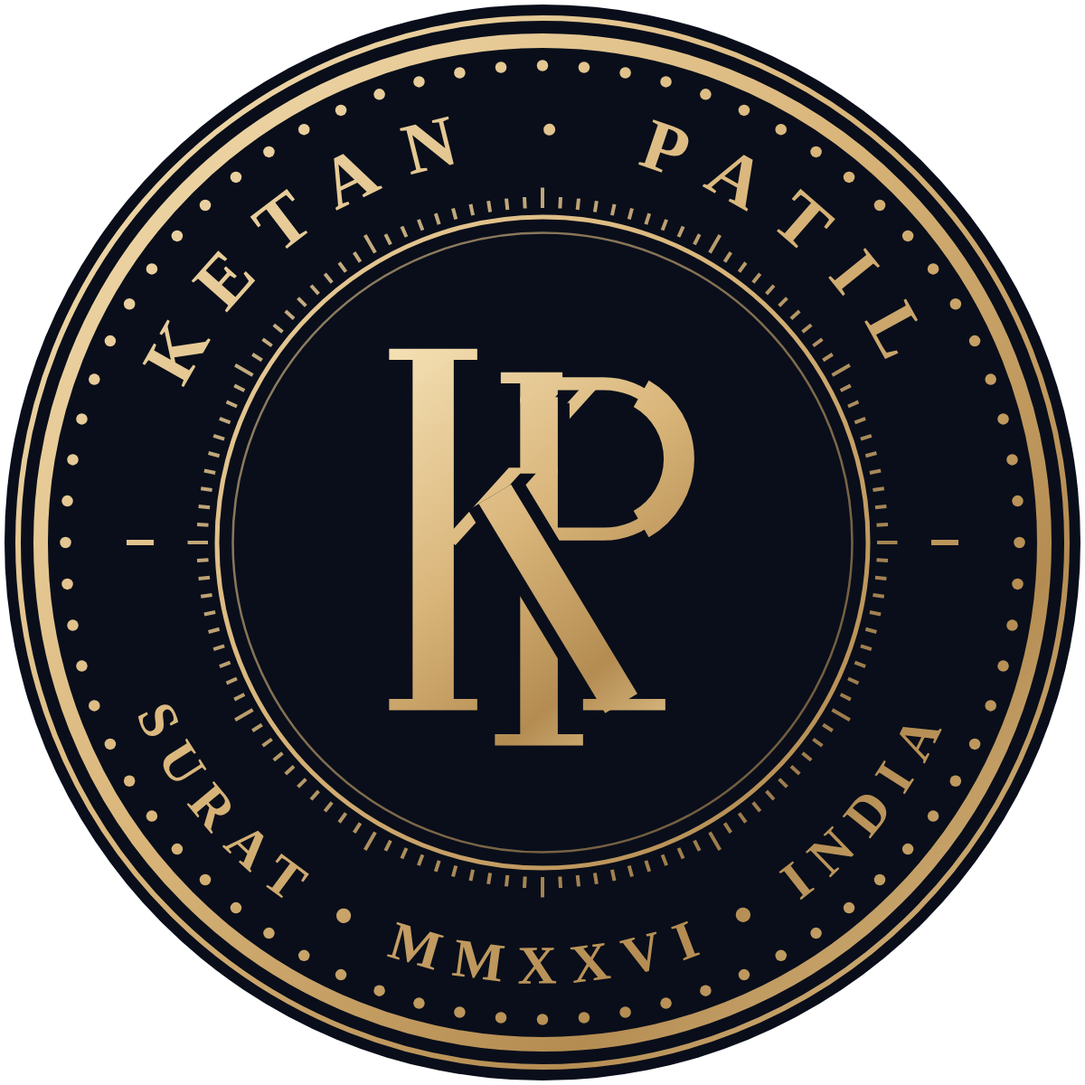
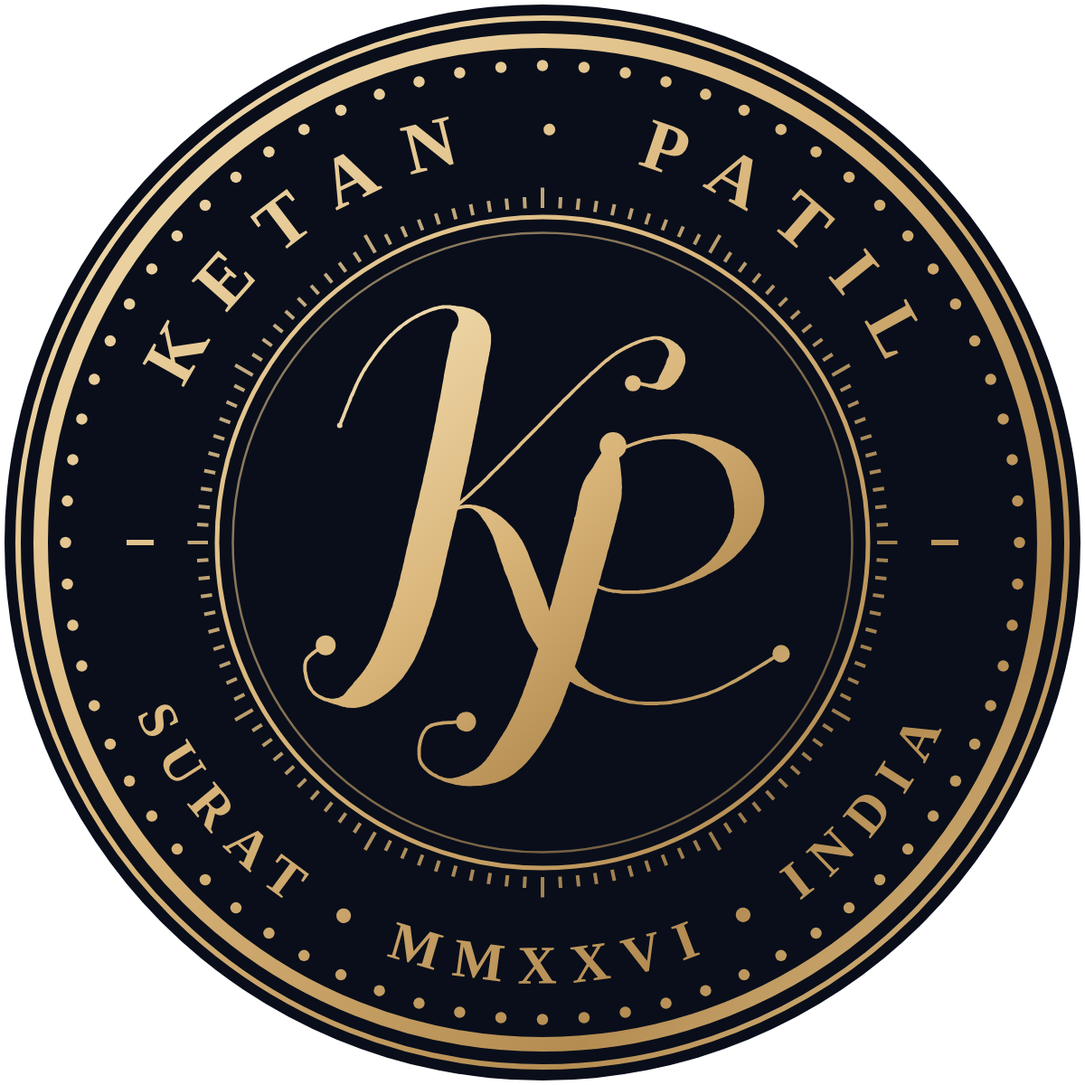
New calligraphic K·P monogram
Original pointed-pen script monogram (swelling downstrokes, hairline
upstrokes, ball terminals) replaces the engraved one in the nav, intro,
seal, favicons and brand files.

Claude-Session: https://claude.ai/code/session_01DU3MMTiPHhyLAGaKWpqTyE

Changed region(s): [[0.2775, 0.2775, 0.7092, 0.74], [0.3083, 0.3392, 0.3392, 0.4008], [0.7092, 0.5858, 0.74, 0.6167]]

diff --git a/index.html b/index.html
@@ -649,10 +649,11 @@ body.ready .signed text{animation:sign 1.8s 1.8s cubic-bezier(.65,0,.35,1) forwa
 footer .fnum{text-transform:none;letter-spacing:.06em}
 @media (max-width:760px){.fab{width:52px;height:52px}.fab svg{width:52px;height:52px}.fab-tip{display:none}}
 /* logo */
-.mk2{width:44px;height:44px;display:block;flex:none;transition:transform .8s cubic-bezier(.34,1.56,.64,1)}
+.mk2{width:46px;height:46px;display:block;flex:none;transition:transform .8s cubic-bezier(.34,1.56,.64,1)}
 .mk2 svg,.lmark svg,.fseal svg,.cseal svg{width:100%;height:100%;display:block}
 .logo:hover .mk2{transform:rotate(-12deg) scale(1.06)}
-.lmark{width:92px;height:92px;margin:0 auto 6px;opacity:0;animation:stamp .9s .15s cubic-bezier(.34,1.56,.64,1) forwards}
+.lmark{width:118px;height:118px;margin:0 auto 4px;clip-path:inset(0 100% 0 0);animation:write 1.5s .1s cubic-bezier(.65,0,.35,1) forwards;filter:drop-shadow(0 0 18px rgba(240,218,172,.25))}
+@keyframes write{to{clip-path:inset(0 0 0 0)}}
 @keyframes stamp{from{opacity:0;transform:scale(1.6) rotate(-30deg);filter:blur(4px)}to{opacity:1;transform:none;filter:none}}
 .fseal,.cseal{display:block}
 .fseal .ring,.cseal .ring{transform-box:view-box;transform-origin:50% 50%;animation:turn 60s linear infinite}
@@ -860,35 +861,17 @@ function toast(m){const t=$("#toast");t.textContent=m;t.classList.add("show");cl
 const arrow='<svg viewBox="0 0 24 24" fill="none" stroke="currentColor" stroke-width="1.8" stroke-linecap="round" stroke-linejoin="round"><path d="M5 12h14M13 6l6 6-6 6"/></svg>';
 
 // Ketan Patil seal + monogram (original design). gid = unique id prefix, bg = background colour used for interlace gaps.
-function kpMono(gid,bg){const G=`url(#${gid}m)`;return `
-<g fill="none" stroke-linecap="butt" stroke-linejoin="miter">
- <g stroke="${G}">
-  <line x1="52" y1="24" x2="52" y2="86" stroke-width="6.4"/>
-  <line x1="45.5" y1="24.2" x2="56" y2="24.2" stroke-width="1.9"/>
-  <line x1="44.5" y1="85.8" x2="59.5" y2="85.8" stroke-width="1.9"/>
-  <path d="M55 25.2 H63 A12.8 12.8 0 0 1 63 50.8 H55" stroke-width="2.2"/>
-  <path d="M69.4 26.9 A12.8 12.8 0 0 1 69.4 49.1" stroke-width="5.2"/>
- </g>
- <line x1="37" y1="52" x2="57.6" y2="29" stroke="${bg}" stroke-width="6.2"/>
- <line x1="37" y1="52" x2="61.2" y2="25.2" stroke="${G}" stroke-width="2.1"/>
- <line x1="52" y1="28.5" x2="52" y2="39.5" stroke="${bg}" stroke-width="10.4"/>
- <line x1="52" y1="27.5" x2="52" y2="40.5" stroke="${G}" stroke-width="6.4"/>
- <line x1="44.5" y1="44" x2="66" y2="79.6" stroke="${bg}" stroke-width="10.6"/>
- <line x1="44.5" y1="44" x2="66" y2="79.6" stroke="${G}" stroke-width="6.4"/>
- <line x1="59.5" y1="79.8" x2="73.5" y2="79.8" stroke="${G}" stroke-width="1.9"/>
- <g stroke="${G}">
-  <line x1="34" y1="20" x2="34" y2="80" stroke-width="7"/>
-  <line x1="26.5" y1="20.2" x2="41.5" y2="20.2" stroke-width="1.9"/>
-  <line x1="26.5" y1="79.8" x2="41.5" y2="79.8" stroke-width="1.9"/>
- </g>
-</g>`}
+const KP_PATHS=["M44.5,74.2 L44.7,73.8 L44.9,73.2 L45.2,72.6 L45.4,72.0 L45.7,71.3 L46.0,70.5 L46.3,69.7 L46.7,68.8 L47.0,67.9 L47.4,67.0 L47.8,66.1 L48.1,65.1 L48.6,64.2 L49.0,63.2 L49.4,62.3 L49.8,61.3 L50.2,60.4 L50.7,59.5 L51.1,58.7 L51.6,57.8 L52.0,57.0 L52.5,56.3 L52.9,55.6 L53.4,54.8 L53.9,54.1 L54.4,53.4 L54.9,52.7 L55.4,52.0 L55.9,51.3 L56.4,50.6 L57.0,49.9 L57.5,49.3 L58.0,48.6 L58.6,48.0 L59.2,47.3 L59.7,46.7 L60.3,46.1 L60.9,45.5 L61.4,45.0 L62.0,44.4 L62.6,43.9 L63.2,43.4 L63.8,42.9 L64.3,42.4 L64.9,42.0 L65.5,41.6 L66.2,41.1 L66.8,40.7 L67.4,40.3 L68.1,39.9 L68.8,39.6 L69.4,39.2 L70.1,38.9 L70.8,38.6 L71.5,38.3 L72.1,38.0 L72.8,37.7 L73.4,37.5 L74.1,37.3 L74.7,37.1 L75.3,36.9 L75.9,36.8 L76.5,36.7 L77.0,36.6 L77.5,36.6 L78.0,36.5 L78.5,36.6 L78.9,36.6 L79.4,36.7 L79.8,36.9 L80.2,37.1 L80.6,37.3 L80.9,37.6 L81.3,37.9 L81.5,38.3 L81.7,38.7 L81.9,39.1 L82.0,39.6 L82.1,40.0 L82.1,40.5 L82.0,40.9 L81.9,41.4 L81.8,41.8 L81.7,42.1 L81.5,42.5 L81.3,42.8 L81.1,43.1 L80.9,43.4 L80.7,43.6 L80.5,43.8 L80.4,44.0 L80.2,44.3 L80.1,44.6 L80.0,45.0 L79.9,45.4 L79.8,45.9 L79.7,46.4 L79.6,47.0 L79.4,47.6 L79.3,48.3 L79.2,49.0 L79.0,49.7 L78.9,50.5 L78.7,51.3 L78.5,52.2 L78.3,53.1 L78.1,54.0 L78.0,54.9 L77.8,55.9 L77.6,56.9 L77.4,57.9 L77.3,58.9 L77.1,59.9 L76.9,61.0 L76.7,62.1 L76.5,63.2 L76.3,64.4 L76.1,65.5 L75.8,66.7 L75.6,67.9 L75.4,69.1 L75.1,70.4 L74.9,71.6 L74.7,72.9 L74.4,74.1 L74.2,75.4 L73.9,76.6 L73.7,77.8 L73.4,79.1 L73.1,80.3 L72.9,81.5 L72.6,82.7 L72.4,83.8 L72.1,85.0 L71.9,86.2 L71.6,87.4 L71.4,88.5 L71.1,89.7 L70.8,90.9 L70.6,92.1 L70.3,93.3 L70.0,94.5 L69.7,95.6 L69.5,96.8 L69.2,98.0 L68.9,99.2 L68.6,100.4 L68.3,101.5 L68.1,102.7 L67.8,103.9 L67.5,105.0 L67.2,106.2 L67.0,107.3 L66.7,108.5 L66.4,109.6 L66.1,110.8 L65.9,112.0 L65.6,113.1 L65.3,114.3 L65.1,115.4 L64.8,116.6 L64.6,117.7 L64.3,118.8 L64.1,119.9 L63.8,121.0 L63.5,122.1 L63.3,123.2 L63.0,124.2 L62.8,125.3 L62.5,126.3 L62.2,127.3 L62.0,128.3 L61.7,129.2 L61.4,130.2 L61.1,131.1 L60.9,132.0 L60.5,132.9 L60.2,133.8 L59.9,134.7 L59.6,135.6 L59.3,136.5 L59.0,137.3 L58.7,138.2 L58.4,139.0 L58.1,139.8 L57.8,140.6 L57.5,141.4 L57.2,142.1 L56.9,142.9 L56.6,143.6 L56.3,144.3 L56.0,145.0 L55.7,145.6 L55.4,146.3 L55.1,146.9 L54.8,147.5 L54.5,148.0 L54.2,148.6 L53.9,149.2 L53.6,149.7 L53.3,150.3 L52.9,150.9 L52.5,151.4 L52.2,152.0 L51.8,152.5 L51.4,153.1 L51.0,153.6 L50.6,154.1 L50.2,154.6 L49.7,155.1 L49.3,155.6 L48.9,156.0 L48.5,156.5 L48.2,156.9 L47.8,157.4 L47.4,157.8 L47.1,158.2 L46.7,158.6 L46.4,159.0 L46.1,159.4 L45.8,159.8 L45.5,160.1 L45.1,160.5 L44.7,160.8 L44.2,161.0 L43.7,161.3 L43.2,161.4 L42.7,161.5 L42.1,161.6 L41.6,161.6 L41.1,161.6 L40.6,161.5 L40.0,161.4 L39.6,161.3 L39.1,161.1 L38.6,160.9 L38.2,160.7 L37.8,160.5 L37.4,160.3 L37.0,160.1 L36.7,159.8 L36.4,159.6 L36.1,159.3 L35.8,159.0 L35.5,158.7 L35.3,158.3 L35.1,157.9 L34.8,157.5 L34.6,157.0 L34.4,156.6 L34.2,156.1 L34.1,155.6 L33.9,155.1 L33.8,154.6 L33.7,154.1 L33.6,153.6 L33.5,153.1 L33.4,152.6 L33.4,152.1 L33.4,151.7 L33.4,151.2 L33.4,150.8 L33.5,150.5 L33.5,150.1 L33.6,149.8 L33.8,149.5 L34.0,149.2 L34.2,148.9 L34.5,148.6 L34.8,148.3 L35.1,148.0 L35.5,147.7 L35.8,147.4 L36.2,147.1 L36.6,146.8 L37.0,146.6 L37.4,146.3 L37.8,146.0 L38.2,145.8 L38.6,145.6 L39.0,145.3 L39.3,145.1 L39.6,144.9 L39.9,144.8 L40.1,144.6 L40.3,144.4 L39.7,143.6 L39.5,143.7 L39.3,143.8 L39.0,144.0 L38.7,144.2 L38.4,144.4 L38.0,144.6 L37.7,144.9 L37.3,145.1 L36.8,145.4 L36.4,145.6 L36.0,145.9 L35.6,146.2 L35.2,146.5 L34.8,146.8 L34.4,147.2 L34.0,147.5 L33.6,147.9 L33.3,148.2 L33.0,148.6 L32.8,149.0 L32.6,149.4 L32.5,149.9 L32.4,150.3 L32.3,150.7 L32.3,151.2 L32.3,151.7 L32.3,152.2 L32.3,152.7 L32.4,153.2 L32.5,153.8 L32.6,154.3 L32.7,154.9 L32.8,155.4 L33.0,155.9 L33.2,156.5 L33.4,157.0 L33.6,157.5 L33.8,158.0 L34.1,158.5 L34.4,158.9 L34.7,159.3 L35.0,159.7 L35.3,160.1 L35.6,160.4 L36.0,160.7 L36.4,161.0 L36.8,161.2 L37.2,161.5 L37.7,161.7 L38.2,162.0 L38.7,162.2 L39.2,162.4 L39.7,162.5 L40.3,162.7 L40.8,162.9 L41.4,163.1 L41.9,163.3 L42.5,163.4 L43.1,163.6 L43.7,163.8 L44.4,164.0 L45.0,164.2 L45.7,164.3 L46.4,164.5 L47.1,164.5 L47.9,164.6 L48.6,164.6 L49.4,164.5 L50.2,164.4 L50.9,164.2 L51.7,164.0 L52.5,163.8 L53.2,163.5 L54.0,163.1 L54.7,162.8 L55.5,162.3 L56.2,161.9 L57.0,161.4 L57.7,160.9 L58.4,160.4 L59.1,159.9 L59.8,159.3 L60.5,158.7 L61.2,158.1 L61.9,157.4 L62.5,156.8 L63.1,156.1 L63.8,155.4 L64.4,154.7 L64.9,153.9 L65.5,153.1 L66.0,152.3 L66.5,151.5 L67.0,150.7 L67.5,149.9 L68.0,149.0 L68.4,148.1 L68.8,147.3 L69.2,146.4 L69.6,145.5 L70.0,144.6 L70.4,143.6 L70.8,142.7 L71.1,141.8 L71.5,140.8 L71.8,139.9 L72.1,138.9 L72.5,138.0 L72.8,137.0 L73.1,136.0 L73.5,135.0 L73.8,133.9 L74.1,132.9 L74.5,131.8 L74.8,130.7 L75.1,129.6 L75.4,128.5 L75.6,127.4 L75.9,126.2 L76.2,125.1 L76.5,124.0 L76.7,122.8 L77.0,121.7 L77.2,120.6 L77.5,119.4 L77.8,118.3 L78.0,117.1 L78.3,116.0 L78.5,114.9 L78.8,113.8 L79.1,112.6 L79.3,111.5 L79.6,110.4 L79.9,109.2 L80.1,108.1 L80.4,106.9 L80.7,105.7 L81.0,104.6 L81.3,103.4 L81.5,102.2 L81.8,101.0 L82.1,99.8 L82.4,98.6 L82.7,97.4 L82.9,96.2 L83.2,95.0 L83.5,93.8 L83.8,92.6 L84.0,91.4 L84.3,90.2 L84.6,89.0 L84.8,87.7 L85.1,86.5 L85.4,85.3 L85.6,84.1 L85.9,82.9 L86.1,81.7 L86.4,80.4 L86.6,79.2 L86.9,77.9 L87.1,76.7 L87.4,75.4 L87.6,74.1 L87.9,72.9 L88.1,71.6 L88.4,70.4 L88.6,69.1 L88.8,67.9 L89.0,66.7 L89.3,65.5 L89.5,64.4 L89.7,63.3 L89.9,62.2 L90.0,61.1 L90.2,60.1 L90.4,59.1 L90.5,58.2 L90.7,57.3 L90.9,56.5 L91.0,55.6 L91.2,54.8 L91.4,54.0 L91.6,53.1 L91.7,52.3 L91.9,51.5 L92.0,50.7 L92.2,49.9 L92.3,49.1 L92.4,48.3 L92.5,47.4 L92.5,46.6 L92.5,45.8 L92.5,44.9 L92.3,44.0 L92.1,43.2 L91.9,42.3 L91.5,41.4 L91.1,40.6 L90.6,39.9 L90.0,39.2 L89.4,38.7 L88.8,38.1 L88.1,37.7 L87.5,37.3 L86.8,36.9 L86.1,36.7 L85.4,36.4 L84.8,36.3 L84.1,36.1 L83.5,36.0 L82.9,35.9 L82.3,35.8 L81.7,35.8 L81.2,35.7 L80.6,35.6 L80.1,35.6 L79.6,35.5 L79.1,35.5 L78.5,35.5 L78.0,35.5 L77.5,35.5 L76.9,35.5 L76.3,35.6 L75.7,35.7 L75.1,35.9 L74.4,36.0 L73.8,36.2 L73.1,36.4 L72.4,36.7 L71.7,37.0 L71.0,37.2 L70.3,37.6 L69.6,37.9 L68.9,38.2 L68.3,38.6 L67.6,39.0 L66.9,39.4 L66.2,39.8 L65.6,40.2 L64.9,40.7 L64.3,41.1 L63.7,41.6 L63.1,42.0 L62.5,42.5 L61.9,43.1 L61.3,43.6 L60.7,44.2 L60.1,44.7 L59.5,45.3 L58.9,46.0 L58.3,46.6 L57.8,47.2 L57.2,47.9 L56.6,48.6 L56.1,49.2 L55.6,49.9 L55.0,50.6 L54.5,51.4 L54.0,52.1 L53.5,52.8 L53.0,53.5 L52.5,54.2 L52.0,55.0 L51.5,55.7 L51.1,56.5 L50.6,57.3 L50.2,58.1 L49.7,59.0 L49.3,59.9 L48.8,60.9 L48.4,61.8 L48.0,62.8 L47.5,63.8 L47.1,64.7 L46.7,65.7 L46.4,66.6 L46.0,67.5 L45.6,68.4 L45.3,69.3 L45.0,70.1 L44.7,70.8 L44.4,71.6 L44.1,72.2 L43.9,72.8 L43.7,73.3 L43.5,73.8ZM43.12,74.00 a0.88,0.88 0 1,0 1.76,0 a0.88,0.88 0 1,0 -1.76,0ZM39.12,144.00 a0.88,0.88 0 1,0 1.76,0 a0.88,0.88 0 1,0 -1.76,0Z", "M72.4,108.4 L72.8,108.1 L73.2,107.7 L73.7,107.3 L74.3,106.8 L74.9,106.3 L75.5,105.7 L76.2,105.1 L76.9,104.5 L77.7,103.9 L78.4,103.2 L79.2,102.5 L80.0,101.8 L80.9,101.1 L81.7,100.4 L82.6,99.6 L83.4,98.9 L84.3,98.1 L85.1,97.4 L86.0,96.6 L86.8,95.9 L87.6,95.1 L88.4,94.4 L89.2,93.7 L90.0,92.9 L90.8,92.1 L91.6,91.3 L92.4,90.5 L93.2,89.7 L94.0,88.9 L94.9,88.1 L95.7,87.2 L96.6,86.4 L97.4,85.5 L98.2,84.7 L99.1,83.8 L99.9,83.0 L100.7,82.1 L101.6,81.3 L102.4,80.4 L103.2,79.6 L104.0,78.8 L104.8,78.0 L105.6,77.2 L106.4,76.4 L107.2,75.6 L107.9,74.8 L108.7,74.1 L109.5,73.3 L110.2,72.5 L111.0,71.7 L111.8,70.9 L112.5,70.2 L113.3,69.4 L114.0,68.6 L114.8,67.9 L115.5,67.1 L116.2,66.4 L117.0,65.7 L117.7,65.0 L118.4,64.3 L119.1,63.6 L119.7,62.9 L120.4,62.3 L121.1,61.6 L121.7,61.0 L122.4,60.4 L123.0,59.8 L123.6,59.2 L124.2,58.7 L124.8,58.1 L125.4,57.6 L125.9,57.1 L126.5,56.6 L127.0,56.1 L127.6,55.6 L128.1,55.1 L128.6,54.7 L129.1,54.2 L129.6,53.8 L130.2,53.4 L130.7,53.0 L131.2,52.6 L131.7,52.2 L132.2,51.8 L132.7,51.5 L133.2,51.1 L133.7,50.8 L134.3,50.5 L134.8,50.2 L135.4,49.9 L135.9,49.6 L136.5,49.3 L137.1,49.0 L137.7,48.7 L138.2,48.4 L138.8,48.2 L139.4,48.0 L140.0,47.7 L140.6,47.5 L141.1,47.3 L141.7,47.2 L142.2,47.0 L142.8,46.9 L143.3,46.7 L143.8,46.7 L144.3,46.6 L144.7,46.5 L145.1,46.5 L145.6,46.5 L145.9,46.6 L146.3,46.7 L146.6,46.8 L147.0,46.9 L147.3,47.1 L147.6,47.4 L147.9,47.6 L148.2,47.9 L148.4,48.2 L148.6,48.5 L148.8,48.9 L149.0,49.2 L149.2,49.5 L149.3,49.9 L149.4,50.2 L149.5,50.5 L149.5,50.9 L149.5,51.2 L149.5,51.4 L149.5,51.7 L149.4,51.9 L149.3,52.1 L149.3,52.2 L149.2,52.3 L149.1,52.4 L149.0,52.6 L148.9,52.9 L148.8,53.2 L148.7,53.5 L148.6,53.9 L148.5,54.3 L148.3,54.7 L148.1,55.1 L147.9,55.6 L147.7,56.0 L147.5,56.4 L147.3,56.8 L147.1,57.2 L146.9,57.6 L146.7,57.9 L146.5,58.3 L146.4,58.6 L146.3,58.9 L146.2,59.2 L146.1,59.4 L146.1,59.7 L145.9,59.9 L145.7,60.2 L145.4,60.4 L145.0,60.5 L144.6,60.6 L144.2,60.7 L143.7,60.7 L143.3,60.7 L142.8,60.6 L142.3,60.5 L141.8,60.4 L141.4,60.3 L140.9,60.2 L140.5,60.1 L140.1,59.9 L139.7,59.8 L139.3,59.7 L138.9,59.6 L138.6,59.6 L138.3,59.5 L138.1,59.5 L137.9,60.5 L138.1,60.6 L138.4,60.6 L138.7,60.7 L139.0,60.8 L139.4,60.9 L139.8,61.0 L140.2,61.1 L140.6,61.2 L141.1,61.4 L141.6,61.5 L142.1,61.6 L142.6,61.7 L143.1,61.9 L143.6,62.0 L144.1,62.1 L144.6,62.2 L145.1,62.3 L145.6,62.5 L146.1,62.6 L146.7,62.6 L147.3,62.7 L147.9,62.6 L148.5,62.4 L149.0,62.2 L149.5,61.9 L150.1,61.6 L150.5,61.2 L151.0,60.8 L151.4,60.4 L151.8,59.9 L152.2,59.4 L152.6,58.9 L152.9,58.3 L153.3,57.8 L153.6,57.2 L153.9,56.6 L154.1,56.1 L154.3,55.5 L154.5,54.9 L154.7,54.3 L154.8,53.7 L154.8,53.1 L154.8,52.5 L154.7,51.8 L154.6,51.2 L154.4,50.7 L154.1,50.2 L153.8,49.7 L153.5,49.3 L153.1,48.9 L152.7,48.5 L152.4,48.1 L151.9,47.8 L151.5,47.5 L151.1,47.2 L150.7,46.9 L150.2,46.7 L149.8,46.4 L149.3,46.2 L148.8,46.1 L148.4,45.9 L147.9,45.8 L147.4,45.6 L147.0,45.5 L146.5,45.5 L146.1,45.4 L145.6,45.4 L145.1,45.4 L144.6,45.4 L144.1,45.5 L143.6,45.6 L143.1,45.7 L142.5,45.8 L141.9,45.9 L141.4,46.1 L140.8,46.3 L140.2,46.5 L139.6,46.7 L139.0,46.9 L138.4,47.2 L137.8,47.4 L137.2,47.7 L136.6,48.0 L136.0,48.3 L135.4,48.6 L134.9,48.9 L134.3,49.2 L133.7,49.5 L133.2,49.9 L132.6,50.2 L132.1,50.6 L131.6,50.9 L131.0,51.3 L130.5,51.7 L130.0,52.1 L129.5,52.5 L128.9,52.9 L128.4,53.4 L127.9,53.8 L127.4,54.3 L126.8,54.8 L126.3,55.3 L125.7,55.8 L125.2,56.3 L124.6,56.8 L124.0,57.3 L123.5,57.9 L122.9,58.4 L122.3,59.0 L121.6,59.6 L121.0,60.2 L120.3,60.8 L119.7,61.5 L119.0,62.1 L118.3,62.8 L117.6,63.5 L116.9,64.2 L116.2,64.9 L115.4,65.6 L114.7,66.4 L114.0,67.1 L113.2,67.9 L112.5,68.6 L111.7,69.4 L111.0,70.2 L110.2,70.9 L109.5,71.7 L108.7,72.5 L107.9,73.3 L107.2,74.1 L106.4,74.8 L105.6,75.6 L104.8,76.4 L104.0,77.2 L103.2,78.0 L102.4,78.8 L101.6,79.6 L100.8,80.5 L100.0,81.3 L99.1,82.2 L98.3,83.0 L97.4,83.9 L96.6,84.7 L95.8,85.6 L94.9,86.4 L94.1,87.3 L93.3,88.1 L92.4,88.9 L91.6,89.7 L90.8,90.6 L90.0,91.3 L89.2,92.1 L88.4,92.9 L87.6,93.6 L86.8,94.3 L86.0,95.1 L85.2,95.8 L84.4,96.6 L83.5,97.3 L82.7,98.1 L81.8,98.8 L81.0,99.6 L80.2,100.3 L79.3,101.0 L78.5,101.7 L77.7,102.4 L76.9,103.1 L76.2,103.7 L75.5,104.3 L74.8,104.9 L74.2,105.4 L73.6,105.9 L73.0,106.4 L72.5,106.9 L72.0,107.2 L71.6,107.6ZM71.12,108.00 a0.88,0.88 0 1,0 1.76,0 a0.88,0.88 0 1,0 -1.76,0ZM137.12,60.00 a0.88,0.88 0 1,0 1.76,0 a0.88,0.88 0 1,0 -1.76,0Z", "M74.2,104.5 L74.5,104.4 L74.9,104.2 L75.3,104.1 L75.7,103.8 L76.2,103.6 L76.7,103.4 L77.2,103.1 L77.8,102.8 L78.4,102.6 L79.0,102.3 L79.6,102.0 L80.2,101.7 L80.8,101.5 L81.5,101.3 L82.1,101.0 L82.7,100.9 L83.3,100.7 L83.9,100.6 L84.4,100.5 L85.0,100.5 L85.4,100.5 L85.9,100.6 L86.3,100.7 L86.8,100.9 L87.2,101.2 L87.6,101.5 L88.0,101.8 L88.4,102.1 L88.7,102.5 L89.1,102.9 L89.4,103.4 L89.7,103.8 L90.0,104.3 L90.3,104.7 L90.7,105.2 L91.0,105.7 L91.3,106.2 L91.6,106.7 L91.9,107.2 L92.2,107.7 L92.4,108.3 L92.7,108.8 L93.0,109.4 L93.2,109.9 L93.4,110.5 L93.6,111.0 L93.8,111.6 L94.0,112.2 L94.2,112.8 L94.4,113.5 L94.6,114.2 L94.8,114.9 L95.1,115.6 L95.3,116.3 L95.6,117.0 L95.8,117.8 L96.1,118.5 L96.4,119.3 L96.6,120.1 L96.9,120.9 L97.2,121.7 L97.6,122.5 L97.9,123.3 L98.2,124.1 L98.5,124.9 L98.8,125.7 L99.1,126.4 L99.4,127.2 L99.6,128.0 L99.9,128.7 L100.2,129.6 L100.4,130.4 L100.7,131.2 L101.0,132.1 L101.3,132.9 L101.6,133.8 L101.9,134.6 L102.2,135.5 L102.6,136.4 L102.9,137.2 L103.3,138.1 L103.7,139.0 L104.1,139.8 L104.6,140.7 L105.1,141.5 L105.6,142.3 L106.0,143.1 L106.6,143.9 L107.0,144.6 L107.5,145.3 L108.0,146.0 L108.5,146.8 L108.9,147.5 L109.4,148.2 L109.9,148.9 L110.5,149.6 L111.0,150.3 L111.6,150.9 L112.2,151.6 L112.8,152.2 L113.4,152.8 L114.1,153.4 L114.8,154.0 L115.5,154.5 L116.2,155.1 L116.9,155.6 L117.7,156.1 L118.5,156.5 L119.2,157.0 L120.0,157.4 L120.8,157.8 L121.7,158.1 L122.5,158.5 L123.3,158.9 L124.2,159.3 L125.0,159.6 L125.9,160.0 L126.8,160.3 L127.7,160.6 L128.6,160.9 L129.6,161.3 L130.5,161.5 L131.4,161.8 L132.4,162.1 L133.3,162.3 L134.2,162.6 L135.2,162.8 L136.1,163.0 L137.1,163.2 L138.0,163.3 L139.0,163.4 L139.9,163.5 L140.9,163.6 L141.9,163.7 L142.8,163.7 L143.8,163.7 L144.8,163.7 L145.8,163.7 L146.8,163.6 L147.8,163.6 L148.8,163.5 L149.9,163.4 L150.9,163.2 L151.9,163.1 L152.9,162.9 L154.0,162.7 L155.0,162.5 L156.0,162.3 L157.1,162.0 L158.1,161.8 L159.1,161.5 L160.1,161.2 L161.2,160.9 L162.2,160.5 L163.2,160.1 L164.3,159.7 L165.4,159.2 L166.5,158.7 L167.7,158.1 L168.8,157.5 L170.0,156.9 L171.2,156.3 L172.4,155.6 L173.5,155.0 L174.7,154.3 L175.8,153.6 L176.9,153.0 L177.9,152.3 L178.9,151.7 L179.9,151.1 L180.8,150.6 L181.6,150.0 L182.4,149.6 L183.1,149.1 L183.7,148.8 L184.3,148.5 L183.7,147.5 L183.2,147.8 L182.5,148.2 L181.8,148.6 L181.1,149.1 L180.2,149.6 L179.3,150.2 L178.3,150.8 L177.3,151.4 L176.3,152.0 L175.2,152.7 L174.1,153.3 L173.0,154.0 L171.8,154.7 L170.7,155.3 L169.5,155.9 L168.3,156.6 L167.2,157.2 L166.1,157.7 L165.0,158.2 L163.9,158.7 L162.8,159.1 L161.8,159.5 L160.8,159.8 L159.8,160.1 L158.8,160.4 L157.8,160.7 L156.8,161.0 L155.8,161.2 L154.8,161.4 L153.8,161.6 L152.8,161.8 L151.7,162.0 L150.7,162.1 L149.7,162.3 L148.7,162.4 L147.7,162.5 L146.7,162.5 L145.8,162.6 L144.8,162.6 L143.8,162.6 L142.9,162.6 L141.9,162.6 L141.0,162.5 L140.1,162.5 L139.1,162.4 L138.2,162.2 L137.3,162.1 L136.4,161.9 L135.4,161.7 L134.5,161.4 L133.6,161.2 L132.7,160.9 L131.8,160.6 L130.9,160.2 L130.1,159.9 L129.2,159.5 L128.4,159.1 L127.6,158.7 L126.8,158.2 L126.0,157.7 L125.2,157.3 L124.5,156.8 L123.8,156.3 L123.2,155.7 L122.5,155.2 L122.0,154.6 L121.4,154.1 L120.9,153.5 L120.4,152.9 L120.0,152.3 L119.6,151.7 L119.2,151.0 L118.8,150.4 L118.4,149.8 L118.0,149.1 L117.7,148.5 L117.3,147.8 L117.0,147.1 L116.6,146.5 L116.3,145.8 L115.9,145.1 L115.6,144.4 L115.2,143.7 L114.8,143.0 L114.5,142.3 L114.1,141.6 L113.8,140.8 L113.4,140.1 L113.1,139.4 L112.9,138.7 L112.6,138.0 L112.4,137.2 L112.1,136.5 L111.9,135.7 L111.6,134.9 L111.4,134.1 L111.1,133.3 L110.9,132.4 L110.6,131.6 L110.4,130.8 L110.1,129.9 L109.8,129.1 L109.5,128.2 L109.2,127.4 L108.9,126.5 L108.5,125.7 L108.2,124.8 L107.9,124.0 L107.5,123.1 L107.2,122.3 L106.9,121.5 L106.6,120.8 L106.3,120.0 L106.0,119.3 L105.7,118.5 L105.4,117.7 L105.1,116.9 L104.8,116.1 L104.5,115.3 L104.2,114.5 L103.8,113.7 L103.5,113.0 L103.1,112.2 L102.7,111.4 L102.3,110.7 L101.8,110.0 L101.4,109.3 L100.9,108.6 L100.4,107.9 L99.9,107.3 L99.3,106.6 L98.8,106.1 L98.2,105.5 L97.7,105.0 L97.2,104.5 L96.6,104.0 L96.1,103.6 L95.5,103.1 L94.9,102.7 L94.4,102.3 L93.8,101.9 L93.2,101.6 L92.6,101.2 L92.0,100.9 L91.4,100.7 L90.8,100.4 L90.1,100.2 L89.5,100.1 L88.9,99.9 L88.4,99.8 L87.8,99.6 L87.2,99.5 L86.7,99.5 L86.1,99.4 L85.5,99.4 L84.9,99.4 L84.3,99.4 L83.7,99.5 L83.0,99.6 L82.4,99.8 L81.7,100.0 L81.1,100.2 L80.4,100.5 L79.8,100.7 L79.2,101.0 L78.5,101.3 L77.9,101.6 L77.3,101.8 L76.8,102.1 L76.2,102.4 L75.7,102.6 L75.2,102.9 L74.8,103.1 L74.4,103.2 L74.1,103.4 L73.8,103.5ZM73.12,104.00 a0.88,0.88 0 1,0 1.76,0 a0.88,0.88 0 1,0 -1.76,0ZM183.12,148.00 a0.88,0.88 0 1,0 1.76,0 a0.88,0.88 0 1,0 -1.76,0Z", "M129.5,79.6 L129.4,80.0 L129.2,80.6 L128.9,81.2 L128.5,81.8 L128.1,82.5 L127.7,83.2 L127.2,84.0 L126.7,84.8 L126.2,85.6 L125.7,86.5 L125.2,87.4 L124.6,88.3 L124.1,89.3 L123.6,90.2 L123.1,91.2 L122.6,92.2 L122.2,93.2 L121.8,94.3 L121.5,95.3 L121.2,96.4 L120.9,97.4 L120.7,98.4 L120.4,99.5 L120.2,100.5 L119.9,101.6 L119.6,102.8 L119.3,103.9 L119.0,105.1 L118.7,106.2 L118.4,107.4 L118.0,108.6 L117.7,109.8 L117.4,111.1 L117.1,112.3 L116.7,113.5 L116.4,114.7 L116.0,115.9 L115.7,117.2 L115.4,118.4 L115.0,119.6 L114.7,120.8 L114.4,121.9 L114.1,123.1 L113.7,124.3 L113.4,125.4 L113.1,126.5 L112.8,127.7 L112.5,128.8 L112.2,129.9 L111.9,131.1 L111.5,132.2 L111.2,133.3 L110.9,134.4 L110.6,135.5 L110.3,136.6 L110.0,137.7 L109.7,138.8 L109.4,139.8 L109.1,140.9 L108.8,141.9 L108.5,143.0 L108.1,144.0 L107.8,145.0 L107.5,146.0 L107.2,146.9 L106.9,147.9 L106.5,148.9 L106.2,149.9 L105.9,150.9 L105.5,151.9 L105.2,152.8 L104.9,153.8 L104.6,154.7 L104.2,155.6 L103.9,156.5 L103.6,157.4 L103.2,158.3 L102.9,159.2 L102.6,160.1 L102.3,160.9 L101.9,161.7 L101.6,162.5 L101.3,163.3 L101.0,164.1 L100.6,164.8 L100.3,165.6 L99.9,166.3 L99.6,167.0 L99.2,167.7 L98.8,168.5 L98.4,169.2 L98.1,169.9 L97.7,170.6 L97.3,171.3 L96.9,172.0 L96.5,172.6 L96.1,173.3 L95.7,173.9 L95.3,174.5 L94.9,175.1 L94.6,175.7 L94.2,176.3 L93.8,176.9 L93.5,177.4 L93.1,178.0 L92.8,178.5 L92.4,179.0 L92.1,179.5 L91.8,180.0 L91.4,180.4 L91.1,180.9 L90.7,181.4 L90.4,181.8 L89.9,182.2 L89.5,182.7 L89.0,183.1 L88.5,183.5 L88.0,183.9 L87.4,184.2 L86.9,184.6 L86.3,184.9 L85.7,185.2 L85.2,185.5 L84.6,185.7 L84.0,186.0 L83.4,186.2 L82.8,186.4 L82.3,186.6 L81.7,186.8 L81.1,186.9 L80.6,187.0 L80.1,187.1 L79.6,187.1 L79.0,187.1 L78.5,187.1 L77.9,187.0 L77.4,186.9 L76.9,186.7 L76.3,186.5 L75.8,186.3 L75.3,186.0 L74.8,185.7 L74.3,185.5 L73.8,185.2 L73.4,184.9 L72.9,184.5 L72.5,184.2 L72.1,183.9 L71.8,183.5 L71.4,183.2 L71.2,182.8 L70.9,182.5 L70.7,182.1 L70.5,181.8 L70.3,181.4 L70.2,181.0 L70.1,180.6 L70.0,180.1 L70.0,179.6 L70.0,179.1 L70.0,178.6 L70.0,178.0 L70.0,177.5 L70.1,176.9 L70.2,176.3 L70.3,175.8 L70.4,175.2 L70.6,174.7 L70.7,174.2 L70.9,173.7 L71.1,173.2 L71.3,172.8 L71.6,172.4 L71.8,172.0 L72.1,171.7 L72.4,171.4 L72.7,171.2 L73.0,171.0 L73.4,170.8 L73.9,170.6 L74.4,170.4 L75.0,170.3 L75.6,170.2 L76.2,170.1 L76.9,170.0 L77.5,169.9 L78.2,169.9 L78.8,169.8 L79.5,169.8 L80.1,169.8 L80.7,169.7 L81.3,169.7 L81.9,169.7 L82.4,169.7 L82.9,169.6 L83.4,169.6 L83.8,169.6 L84.1,169.5 L83.9,168.5 L83.6,168.5 L83.3,168.5 L82.9,168.5 L82.4,168.6 L81.9,168.6 L81.3,168.6 L80.7,168.6 L80.1,168.7 L79.4,168.7 L78.8,168.7 L78.1,168.8 L77.4,168.8 L76.7,168.9 L76.1,169.0 L75.4,169.1 L74.8,169.2 L74.1,169.4 L73.6,169.5 L73.0,169.7 L72.5,170.0 L72.0,170.3 L71.6,170.6 L71.3,171.0 L71.0,171.4 L70.7,171.8 L70.4,172.3 L70.1,172.8 L69.9,173.3 L69.7,173.8 L69.5,174.4 L69.3,175.0 L69.2,175.6 L69.1,176.2 L69.0,176.8 L68.9,177.4 L68.9,178.0 L68.9,178.6 L68.9,179.1 L68.9,179.7 L69.0,180.3 L69.0,180.8 L69.2,181.3 L69.3,181.8 L69.5,182.2 L69.7,182.7 L70.0,183.1 L70.3,183.5 L70.6,183.9 L71.0,184.3 L71.4,184.7 L71.8,185.0 L72.2,185.4 L72.7,185.8 L73.2,186.1 L73.7,186.4 L74.2,186.7 L74.8,187.0 L75.3,187.3 L75.9,187.5 L76.5,187.7 L77.0,188.0 L77.6,188.2 L78.2,188.4 L78.8,188.6 L79.3,188.7 L79.9,188.9 L80.5,189.0 L81.1,189.2 L81.8,189.3 L82.4,189.4 L83.1,189.5 L83.8,189.6 L84.5,189.6 L85.3,189.7 L86.0,189.7 L86.8,189.6 L87.6,189.6 L88.4,189.5 L89.2,189.5 L90.0,189.4 L90.8,189.2 L91.6,189.1 L92.4,188.9 L93.2,188.7 L94.1,188.5 L94.9,188.2 L95.7,187.9 L96.6,187.6 L97.4,187.2 L98.2,186.8 L98.9,186.3 L99.7,185.8 L100.4,185.3 L101.1,184.7 L101.8,184.1 L102.5,183.5 L103.2,182.8 L103.8,182.2 L104.4,181.5 L105.0,180.8 L105.6,180.0 L106.2,179.3 L106.8,178.5 L107.3,177.8 L107.9,177.0 L108.4,176.2 L108.9,175.4 L109.4,174.6 L109.9,173.8 L110.4,173.0 L110.9,172.2 L111.4,171.3 L111.9,170.4 L112.3,169.5 L112.8,168.6 L113.2,167.6 L113.7,166.7 L114.1,165.8 L114.5,164.8 L114.9,163.9 L115.3,162.9 L115.6,162.0 L116.0,161.0 L116.4,160.0 L116.7,159.0 L117.1,158.0 L117.4,157.1 L117.8,156.1 L118.1,155.1 L118.4,154.1 L118.8,153.1 L119.1,152.1 L119.5,151.0 L119.8,150.0 L120.2,148.9 L120.5,147.8 L120.9,146.8 L121.2,145.7 L121.5,144.6 L121.8,143.5 L122.2,142.4 L122.5,141.3 L122.8,140.1 L123.1,139.0 L123.4,137.9 L123.8,136.8 L124.1,135.7 L124.4,134.5 L124.7,133.4 L125.0,132.3 L125.3,131.1 L125.6,130.0 L125.9,128.9 L126.3,127.7 L126.6,126.6 L126.9,125.4 L127.2,124.2 L127.6,123.1 L127.9,121.8 L128.2,120.6 L128.6,119.4 L128.9,118.2 L129.3,116.9 L129.6,115.7 L129.9,114.4 L130.3,113.2 L130.6,112.0 L130.9,110.8 L131.2,109.6 L131.6,108.4 L131.9,107.2 L132.2,106.0 L132.5,104.9 L132.8,103.8 L133.0,102.7 L133.3,101.6 L133.6,100.5 L133.8,99.4 L134.1,98.3 L134.3,97.2 L134.4,96.1 L134.4,94.9 L134.5,93.8 L134.4,92.7 L134.4,91.5 L134.3,90.4 L134.2,89.4 L134.1,88.3 L134.0,87.3 L133.9,86.3 L133.7,85.4 L133.6,84.5 L133.5,83.6 L133.4,82.9 L133.4,82.2 L133.4,81.5 L133.4,80.9 L133.5,80.4ZM130.62,80.00 a0.88,0.88 0 1,0 1.76,0 a0.88,0.88 0 1,0 -1.76,0ZM83.12,169.00 a0.88,0.88 0 1,0 1.76,0 a0.88,0.88 0 1,0 -1.76,0Z", "M127.30,80.50 a4.3,4.3 0 1,0 8.60,0 a4.3,4.3 0 1,0 -8.60,0Z", "M120.5,104.1 L120.6,103.8 L120.7,103.3 L120.8,102.9 L120.9,102.3 L121.0,101.8 L121.1,101.2 L121.2,100.5 L121.3,99.9 L121.4,99.2 L121.5,98.5 L121.7,97.7 L121.8,97.0 L122.0,96.3 L122.2,95.5 L122.4,94.8 L122.6,94.1 L122.8,93.4 L123.1,92.7 L123.4,92.1 L123.7,91.4 L124.1,90.9 L124.4,90.3 L124.9,89.8 L125.3,89.3 L125.8,88.7 L126.3,88.2 L126.8,87.7 L127.4,87.2 L127.9,86.7 L128.5,86.2 L129.2,85.7 L129.8,85.2 L130.4,84.7 L131.1,84.2 L131.8,83.8 L132.5,83.3 L133.2,82.9 L133.9,82.5 L134.6,82.1 L135.3,81.8 L136.0,81.4 L136.8,81.1 L137.5,80.8 L138.2,80.5 L138.9,80.3 L139.7,80.0 L140.4,79.8 L141.2,79.5 L142.0,79.3 L142.8,79.1 L143.6,79.0 L144.5,78.8 L145.3,78.7 L146.2,78.6 L147.0,78.5 L147.9,78.4 L148.7,78.4 L149.5,78.4 L150.4,78.4 L151.2,78.4 L152.0,78.5 L152.8,78.6 L153.6,78.8 L154.3,78.9 L155.1,79.1 L155.8,79.3 L156.5,79.6 L157.1,79.8 L157.8,80.1 L158.5,80.4 L159.2,80.8 L159.9,81.1 L160.6,81.5 L161.3,81.9 L161.9,82.3 L162.6,82.7 L163.2,83.1 L163.8,83.6 L164.4,84.1 L164.9,84.6 L165.4,85.1 L165.9,85.6 L166.3,86.1 L166.7,86.6 L167.0,87.1 L167.3,87.6 L167.6,88.1 L167.8,88.6 L167.9,89.0 L168.1,89.5 L168.3,90.1 L168.5,90.6 L168.7,91.1 L168.9,91.7 L169.0,92.3 L169.2,92.9 L169.4,93.5 L169.5,94.1 L169.7,94.8 L169.8,95.4 L169.9,96.0 L170.0,96.6 L170.1,97.3 L170.2,97.9 L170.3,98.5 L170.4,99.1 L170.4,99.7 L170.4,100.2 L170.5,100.8 L170.5,101.3 L170.5,101.8 L170.5,102.3 L170.4,102.9 L170.4,103.5 L170.2,104.1 L170.1,104.8 L169.9,105.5 L169.7,106.1 L169.5,106.8 L169.2,107.5 L169.0,108.2 L168.6,108.9 L168.3,109.6 L168.0,110.2 L167.6,110.9 L167.2,111.6 L166.8,112.3 L166.3,112.9 L165.9,113.6 L165.4,114.2 L165.0,114.8 L164.5,115.4 L164.0,116.0 L163.5,116.5 L163.0,117.1 L162.4,117.7 L161.8,118.2 L161.1,118.8 L160.4,119.3 L159.7,119.8 L159.0,120.3 L158.3,120.8 L157.5,121.3 L156.7,121.8 L156.0,122.2 L155.2,122.6 L154.4,123.0 L153.6,123.4 L152.8,123.8 L152.0,124.1 L151.2,124.5 L150.4,124.8 L149.6,125.1 L148.8,125.4 L148.0,125.6 L147.2,125.8 L146.4,126.0 L145.6,126.2 L144.8,126.4 L143.9,126.5 L143.1,126.6 L142.2,126.7 L141.4,126.8 L140.5,126.8 L139.7,126.9 L138.8,126.9 L138.0,126.9 L137.1,126.9 L136.3,126.9 L135.5,126.9 L134.7,126.9 L134.0,126.8 L133.2,126.7 L132.5,126.7 L131.8,126.6 L131.1,126.5 L130.4,126.3 L129.8,126.2 L129.1,126.0 L128.5,125.7 L127.8,125.5 L127.2,125.2 L126.6,124.9 L125.9,124.6 L125.3,124.3 L124.7,123.9 L124.2,123.6 L123.6,123.2 L123.0,122.9 L122.5,122.6 L122.0,122.2 L121.5,121.9 L121.1,121.6 L120.7,121.4 L120.3,121.1 L119.9,120.9 L119.6,120.7 L119.3,120.5 L118.7,121.5 L119.0,121.6 L119.3,121.8 L119.7,122.0 L120.1,122.3 L120.5,122.6 L120.9,122.9 L121.4,123.2 L121.9,123.5 L122.5,123.8 L123.0,124.2 L123.6,124.5 L124.2,124.9 L124.8,125.2 L125.4,125.6 L126.1,125.9 L126.7,126.2 L127.4,126.5 L128.1,126.8 L128.8,127.0 L129.5,127.2 L130.2,127.4 L130.9,127.5 L131.6,127.7 L132.3,127.7 L133.1,127.8 L133.9,127.9 L134.7,128.0 L135.5,128.0 L136.3,128.0 L137.1,128.0 L138.0,128.0 L138.8,128.0 L139.7,128.0 L140.6,127.9 L141.5,127.9 L142.3,127.8 L143.2,127.7 L144.1,127.6 L144.9,127.5 L145.8,127.3 L146.7,127.2 L147.5,127.0 L148.4,126.8 L149.2,126.6 L150.0,126.4 L150.8,126.2 L151.7,126.0 L152.5,125.7 L153.4,125.4 L154.3,125.1 L155.1,124.8 L156.0,124.5 L156.9,124.2 L157.8,123.8 L158.6,123.4 L159.5,123.1 L160.3,122.7 L161.2,122.3 L162.0,121.8 L162.8,121.4 L163.6,121.0 L164.4,120.5 L165.2,120.1 L166.0,119.6 L166.8,119.1 L167.5,118.6 L168.2,118.1 L168.9,117.6 L169.6,117.0 L170.3,116.4 L170.9,115.8 L171.6,115.1 L172.2,114.5 L172.9,113.8 L173.5,113.1 L174.1,112.4 L174.7,111.7 L175.2,111.0 L175.8,110.2 L176.3,109.4 L176.8,108.7 L177.3,107.9 L177.7,107.0 L178.2,106.2 L178.6,105.4 L178.9,104.5 L179.2,103.6 L179.5,102.7 L179.7,101.8 L179.9,100.9 L180.0,100.0 L180.1,99.0 L180.1,98.1 L180.1,97.1 L180.0,96.1 L179.9,95.2 L179.7,94.2 L179.5,93.3 L179.3,92.4 L179.0,91.4 L178.7,90.5 L178.4,89.6 L178.0,88.8 L177.6,87.9 L177.1,87.1 L176.6,86.3 L176.1,85.5 L175.5,84.8 L174.9,84.1 L174.2,83.4 L173.5,82.8 L172.8,82.3 L172.1,81.7 L171.3,81.3 L170.5,80.8 L169.7,80.4 L168.9,80.0 L168.1,79.6 L167.2,79.2 L166.4,78.9 L165.5,78.6 L164.7,78.3 L163.8,78.0 L163.0,77.8 L162.1,77.6 L161.3,77.4 L160.4,77.2 L159.6,77.0 L158.7,76.9 L157.9,76.8 L157.1,76.7 L156.2,76.7 L155.4,76.6 L154.6,76.6 L153.8,76.6 L152.9,76.7 L152.1,76.7 L151.2,76.8 L150.3,76.8 L149.5,76.9 L148.6,77.0 L147.7,77.1 L146.9,77.3 L146.0,77.4 L145.1,77.5 L144.3,77.7 L143.4,77.9 L142.6,78.1 L141.7,78.3 L140.9,78.5 L140.1,78.7 L139.3,79.0 L138.6,79.2 L137.8,79.5 L137.1,79.8 L136.3,80.1 L135.6,80.4 L134.8,80.8 L134.1,81.2 L133.4,81.6 L132.6,82.0 L131.9,82.4 L131.2,82.9 L130.5,83.3 L129.8,83.8 L129.1,84.3 L128.5,84.8 L127.8,85.3 L127.2,85.8 L126.6,86.4 L126.0,86.9 L125.5,87.4 L125.0,88.0 L124.5,88.5 L124.0,89.1 L123.6,89.7 L123.1,90.3 L122.8,90.9 L122.4,91.6 L122.1,92.3 L121.8,93.0 L121.6,93.7 L121.3,94.5 L121.1,95.2 L120.9,96.0 L120.7,96.8 L120.6,97.5 L120.4,98.3 L120.3,99.0 L120.2,99.7 L120.1,100.4 L120.0,101.0 L119.9,101.6 L119.8,102.2 L119.7,102.7 L119.6,103.1 L119.6,103.5 L119.5,103.9ZM119.12,104.00 a0.88,0.88 0 1,0 1.76,0 a0.88,0.88 0 1,0 -1.76,0ZM118.12,121.00 a0.88,0.88 0 1,0 1.76,0 a0.88,0.88 0 1,0 -1.76,0Z", "M182.70,147.20 a2.8,2.8 0 1,0 5.60,0 a2.8,2.8 0 1,0 -5.60,0Z", "M36.30,144.50 a3.2,3.2 0 1,0 6.40,0 a3.2,3.2 0 1,0 -6.40,0Z", "M81.30,169.00 a3.2,3.2 0 1,0 6.40,0 a3.2,3.2 0 1,0 -6.40,0Z", "M135.40,60.50 a2.6,2.6 0 1,0 5.20,0 a2.6,2.6 0 1,0 -5.20,0Z"];
+/* Script K·P monogram (original pointed-pen design). Drawn in a 20..200 box, centred near (109,113). */
+function kpMono(gid,bg){return `<g fill="url(#${gid}m)">${KP_PATHS.map(d=>`<path d="${d}"/>`).join("")}</g>`}
+function kpScript(gid,label){return `<svg viewBox="26 30 168 166" xmlns="http://www.w3.org/2000/svg" role="img" aria-label="${label||"Ketan Patil monogram"}"><defs>${kpDefs(gid,240)}</defs>${kpMono(gid)}</svg>`}
 function kpDefs(gid,size){const st='<stop offset="0" stop-color="#F6E3B8"/><stop offset=".45" stop-color="#D9B57A"/><stop offset=".75" stop-color="#B48C52"/><stop offset="1" stop-color="#E9CF98"/>';
- return `<linearGradient id="${gid}g" gradientUnits="userSpaceOnUse" x1="0" y1="0" x2="${size}" y2="${size}">${st}</linearGradient><linearGradient id="${gid}m" gradientUnits="userSpaceOnUse" x1="24" y1="18" x2="80" y2="88">${st}</linearGradient>`}
+ return `<linearGradient id="${gid}g" gradientUnits="userSpaceOnUse" x1="0" y1="0" x2="${size}" y2="${size}">${st}</linearGradient><linearGradient id="${gid}m" gradientUnits="userSpaceOnUse" x1="40" y1="30" x2="185" y2="195">${st}</linearGradient>`}
 /* small mark: monogram in a beaded ring (nav, favicon) */
 function kpMark(gid,bg){let beads="";for(let i=0;i<48;i++){const a=i/48*Math.PI*2;beads+=`<circle cx="${(50+44*Math.cos(a)).toFixed(2)}" cy="${(50+44*Math.sin(a)).toFixed(2)}" r="1.05"/>`}
  return `<svg viewBox="0 0 100 100" xmlns="http://www.w3.org/2000/svg" role="img" aria-label="Ketan Patil monogram"><defs>${kpDefs(gid,100)}</defs>
  <circle cx="50" cy="50" r="49" fill="${bg}"/><circle cx="50" cy="50" r="48" fill="none" stroke="url(#${gid}g)" stroke-width="1.4"/><g fill="url(#${gid}g)">${beads}</g><circle cx="50" cy="50" r="40.5" fill="none" stroke="url(#${gid}g)" stroke-width=".6" opacity=".7"/>
- <g transform="translate(50 50) scale(.66) translate(-52.6 -53)">${kpMono(gid,bg)}</g></svg>`}
+ <g transform="translate(50 50.5) scale(.46) translate(-109 -113)">${kpMono(gid,bg)}</g></svg>`}
 /* full seal with lettering */
 function kpSeal(gid,bg,font){let beads="";for(let i=0;i<72;i++){const a=i/72*Math.PI*2;beads+=`<circle cx="${(120+105.5*Math.cos(a)).toFixed(2)}" cy="${(120+105.5*Math.sin(a)).toFixed(2)}" r="1.25"/>`}
  let ticks="";for(let i=0;i<120;i++){const a=i/120*Math.PI*2,r1=74,r2=i%10?76.5:78.5;ticks+=`<line x1="${(120+r1*Math.cos(a)).toFixed(2)}" y1="${(120+r1*Math.sin(a)).toFixed(2)}" x2="${(120+r2*Math.cos(a)).toFixed(2)}" y2="${(120+r2*Math.sin(a)).toFixed(2)}"/>`}
@@ -906,9 +889,9 @@ function kpSeal(gid,bg,font){let beads="";for(let i=0;i<72;i++){const a=i/72*Mat
   <circle cx="120" cy="120" r="68.5" fill="none" stroke="url(#${gid}g)" stroke-width=".5" opacity=".6"/>
   <path d="M28 120 h6 M206 120 h6" stroke="url(#${gid}g)" stroke-width="1.2"/>
   <g fill="url(#${gid}g)"><path d="M120 32.5 l2.2 3.3 -2.2 3.3 -2.2 -3.3z" opacity="0"/></g>
-  <g transform="translate(120 121) scale(1.3) translate(-52.6 -53)">${kpMono(gid,bg)}</g></svg>`}
+  <g transform="translate(120 121) scale(.69) translate(-109 -113)">${kpMono(gid,bg)}</g></svg>`}
 
-$("#navMark").innerHTML=kpMark("nm","#090E1A");$("#lmark").innerHTML=kpMark("lm","#090E1A");
+$("#navMark").innerHTML=kpScript("nm");$("#lmark").innerHTML=kpScript("lm");
 $("#fseal").innerHTML=kpSeal("fs","#090E1A");$("#cseal").innerHTML=kpSeal("cs","#090E1A");
 /* ---------- content ---------- */
 const MARQ=["Business Development","WordPress","Client Relationships","SEO","Lead Generation","Elementor","AI-assisted workflows","Website Testing","Proposals","Search visibility"];
